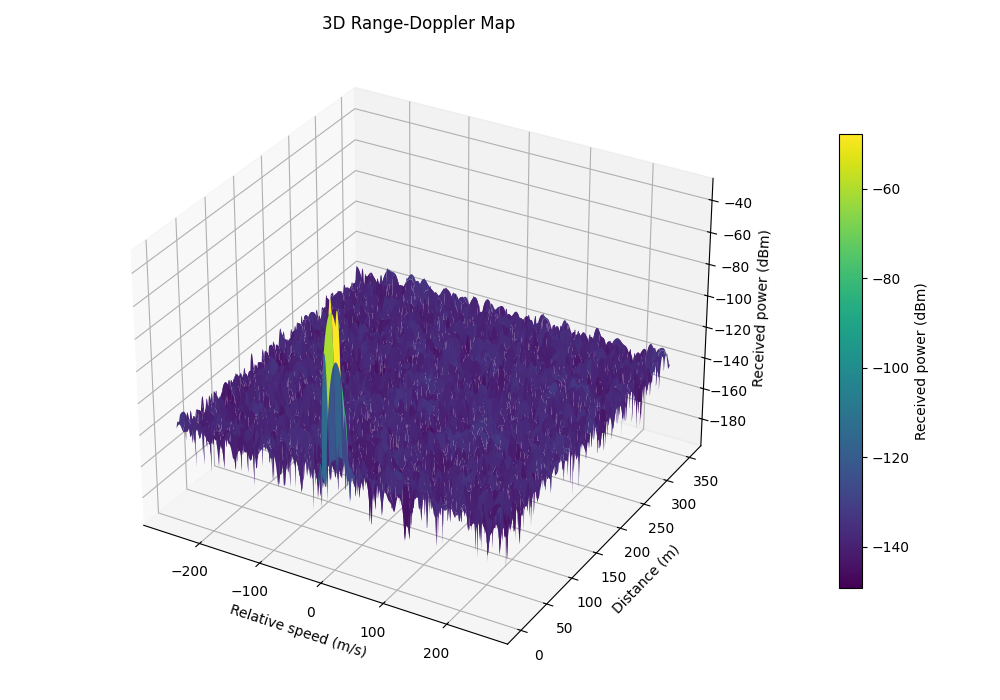
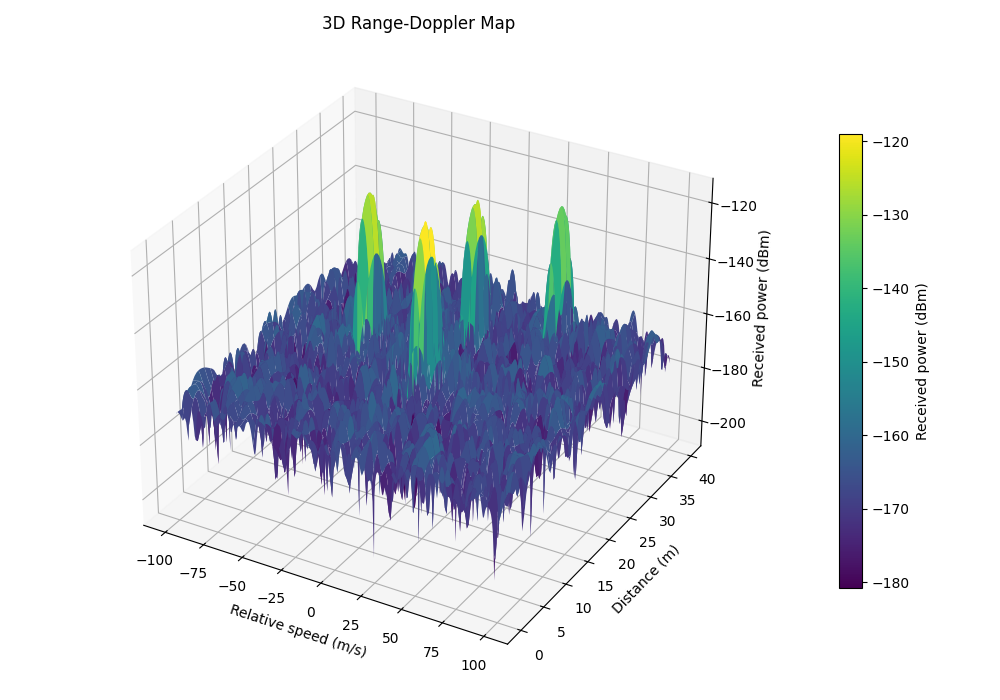
last evaluation adjustments

diff --git a/sym_evaluation.py b/sym_evaluation.py
@@ -46,6 +46,12 @@ if MODULATION == "BPSK":
 else: 
     BITS_PER_SYMBOL = 2
 
+# Suppression window size scaling factor: alpha * (N_PER/N) and alpha * (M_PER/M)
+if WINDOW == "bharris":
+    alpha = 8
+else:
+    alpha = 5
+
 
 exp = np.arange(np.log2(M_START), np.log2(M_END) + 1)
 Mset = 2 ** exp
@@ -53,6 +59,7 @@ Mset = 2 ** exp
 abs_errors = np.zeros((RUNS, len(Mset))) 
 
 for j, M in enumerate(Mset):
+    M = int(M)
     
     N_BITS = BITS_PER_SYMBOL * N * M
 
@@ -62,6 +69,8 @@ for j, M in enumerate(Mset):
     else:
         N_PER = 4 * N
         M_PER = 4 * M
+
+    
         
     N_MAX = int(np.ceil(2 * dmax * N_PER * DELTA_F) / C0)
     M_MAX = int(np.ceil(2 * vmax * FC * T_SYM * M_PER) / C0)
@@ -102,8 +111,8 @@ for j, M in enumerate(Mset):
 
         
         # Post processing =======================================================================================
-        N_win = 7 * int(N_PER // N)
-        M_win = 7 * int(M_PER // M)
+        N_win = alpha * int(N_PER // N)
+        M_win = alpha * int(M_PER // M)
         detections, eta, B = post.cfar_detector(per, noise_power_hat, PFA, N_win=N_win, M_win=M_win)
 
         det_targets = []
@@ -129,7 +138,7 @@ for j, M in enumerate(Mset):
         dlim=[0.0, 40.0]
 
         # plot_periodogram_and_detections(per, B, det_targets, eta, d_ax, v_ax, v_lim=None, d_lim=None)
-        abs_errors[k, j] = np.abs(det_targets[0]["d_hat"] - target.distance)
+        abs_errors[k, j] = np.abs(det_targets[0]["v_hat"] - target.velocity)
 
 # %%  Plot
 import matplotlib.pyplot as plt
@@ -142,10 +151,10 @@ std_db = 10 * np.log10(mean + std) - mean_db
 
 plt.figure(figsize=(8, 5))
 
-plt.plot(bandwidths, mean_db, label='Mean absolute error', color='blue')
+plt.plot(Mset, mean_db, label='Mean absolute error', color='blue')
 
 plt.fill_between(
-    bandwidths,
+    Mset,
     mean_db - std_db,
     mean_db + std_db,
     color="blue",
@@ -153,13 +162,13 @@ plt.fill_between(
     label="±1 std"
 )
 
-plt.xlabel("Bandwidth [MHz]")
-plt.ylabel(r"$|e_d|~[dB]$")
-plt.title("Distance Error vs Bandwidth")
+plt.xlabel("Number of OFDM Symbols")
+plt.ylabel(r"$|e_v|~[dB]$")
+plt.title("Speed Error vs Number of OFDM Symbols")
 plt.legend()
 plt.grid(linestyle=':')
 
 plt.tight_layout()
-plt.savefig("results/N_evaluation.png")
+plt.savefig("results/SYM_evaluation.png")
 plt.show()        
 

diff --git a/simulation.py b/simulation.py
@@ -49,6 +49,12 @@ else:
     N_PER = N * 4
     M_PER = M * 4
 
+# Suppression window size scaling factor: alpha * (N_PER/N) and alpha * (M_PER/M)
+if WINDOW == "bharris":
+    alpha = 8
+else:
+    alpha = 5
+
 N_MAX = int(np.ceil(2 * dmax * N_PER * DELTA_F) / C0)
 M_MAX = int(np.ceil(2 * vmax * FC * T_SYM * M_PER) / C0)
 
@@ -83,8 +89,8 @@ per, n_idx, m_idx, noise_power_hat, c_norm = rx.crop_periodogram(F, N_PER, M_PER
 
 
 # Post processing =======================================================================================
-N_win = 8 * int(N_PER // N)
-M_win = 8 * int(M_PER // M)
+N_win = alpha * int(N_PER // N)
+M_win = alpha * int(M_PER // M)
 detections, eta, B = post.cfar_detector(per, noise_power_hat, PFA, N_win=N_win, M_win=M_win)
 print("Detection Threshold (dBm):", 10 * np.log10(eta * 1000), "\n")
 
@@ -119,9 +125,9 @@ v_ax = m_idx * C0 / (2 * FC * T_SYM * M_PER)
 vlim=[-100.0, 100.0] 
 dlim=[0.0, 40.0]
 
-plot_periodogram_and_detections(per, B, det_targets, eta, d_ax, v_ax, v_lim=None, d_lim=None)
+plot_periodogram_and_detections(per, B, det_targets, eta, d_ax, v_ax, v_lim=vlim, d_lim=dlim)
 
-plot_periodogram_3d(per, eta, d_ax, v_ax, v_lim=None, d_lim=None)
+plot_periodogram_3d(per, eta, d_ax, v_ax, v_lim=vlim, d_lim=dlim)
 
 # plot_periodogram(per, eta, d_ax, v_ax, v_lim=vlim, d_lim=dlim, title="Range-Doppler Map")
 

diff --git a/bw_evaluation.py b/bw_evaluation.py
@@ -44,6 +44,12 @@ if MODULATION == "BPSK":
 else: 
     BITS_PER_SYMBOL = 2
 
+# Suppression window size scaling factor: alpha * (N_PER/N) and alpha * (M_PER/M)
+if WINDOW == "bharris":
+    alpha = 8
+else:
+    alpha = 5
+
 
 bandwidths = np.arange(B_START, B_END + 1, B_STEP)
 abs_errors = np.zeros((RUNS, len(bandwidths))) 
@@ -62,7 +68,8 @@ for j, bw in enumerate(bandwidths):
     else:
         N_PER = 4 * N
         M_PER = 4 * M
-        
+
+ 
     N_MAX = int(np.ceil(2 * dmax * N_PER * DELTA_F) / C0)
     M_MAX = int(np.ceil(2 * vmax * FC * T_SYM * M_PER) / C0)
 
@@ -102,8 +109,8 @@ for j, bw in enumerate(bandwidths):
 
         
         # Post processing =======================================================================================
-        N_win = 7 * int(N_PER // N)
-        M_win = 7 * int(M_PER // M)
+        N_win = alpha * int(N_PER // N)
+        M_win = alpha * int(M_PER // M)
         detections, eta, B = post.cfar_detector(per, noise_power_hat, PFA, N_win=N_win, M_win=M_win)
 
         det_targets = []
@@ -160,7 +167,5 @@ plt.legend()
 plt.grid(linestyle=':')
 
 plt.tight_layout()
-plt.savefig("results/N_evaluation.png")
+plt.savefig("results/BW_evaluation.png")
 plt.show()        
-
-# %%

diff --git a/src/receiver.py b/src/receiver.py
@@ -45,7 +45,7 @@ def periodogram(F, N_per, M_per, window="boxcar"):
 
 
 
-def crop_periodogram(F, N_per, M_per, N_max, M_max, window="rect"):
+def crop_periodogram(F, N_per, M_per, N_max, M_max, window="rect    "):
     M, N = F.shape
     F_nm = F.T
 

diff --git a/README.md b/README.md
@@ -1,9 +1,35 @@
-To recreate environment, run:
+# OFDM Radar Simulation
 
-git clone repo
-cd repo
+Python-based simulation of an **OFDM radar system** for range–Doppler estimation and target detection, inspired by modern **Joint Sensing and Communication (JSC)** concepts.
 
+---
+
+## Overview
+
+This project implements a complete OFDM radar processing chain:
+
+- OFDM signal generation (modulation, IFFT, CP)  
+- Target modeling (range, velocity, RCS)  
+- Received signal processing  
+- Range–Doppler map (2D periodogram)  
+- Target detection (Pfa-based threshold)  
+
+The estimation is based on identifying **sinusoids in time–frequency space**, a key principle in OFDM radar.
+
+---
+
+## Example Output
+
+![Range-Doppler Map](results/2D_periodogram.png)
+
+---
+
+## How to Run
+
+```bash
 python -m venv .venv
-.venv/Scripts/Activate.ps1
-
+source .venv/bin/activate   # Windows: .venv\Scripts\activate
 pip install -r requirements.txt
+python simulation.py
+
+
